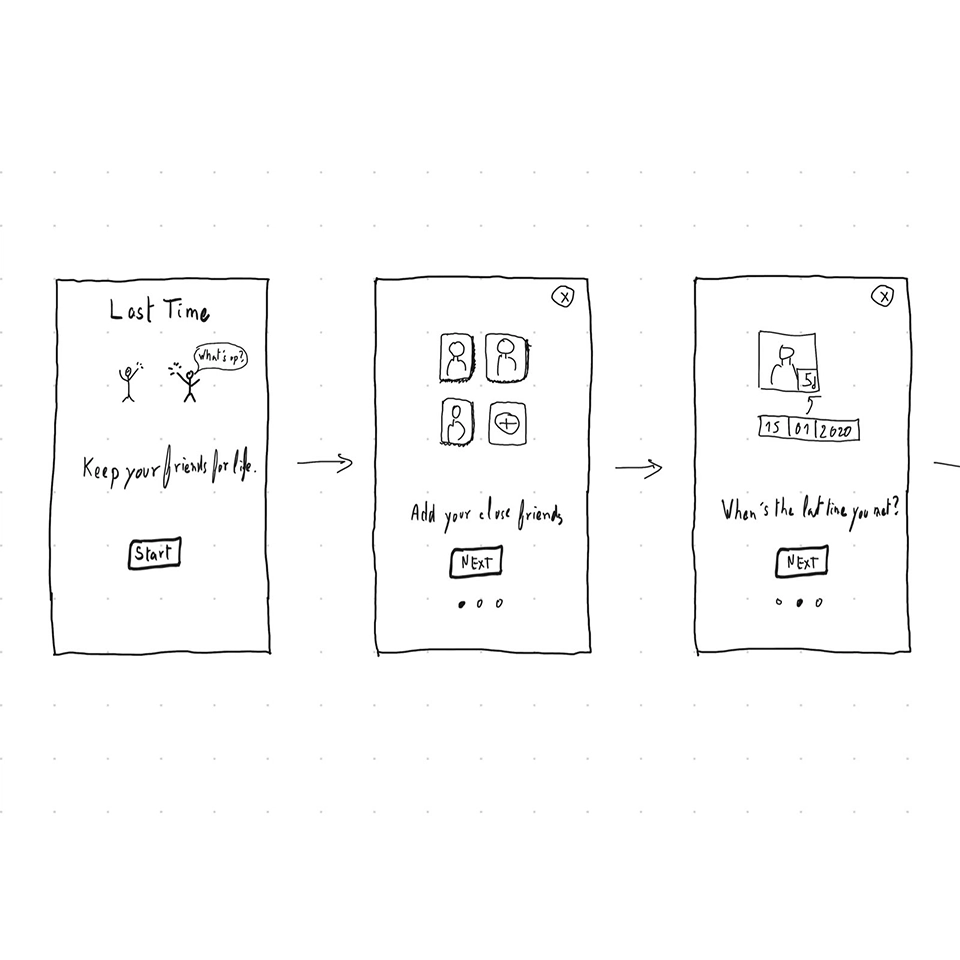
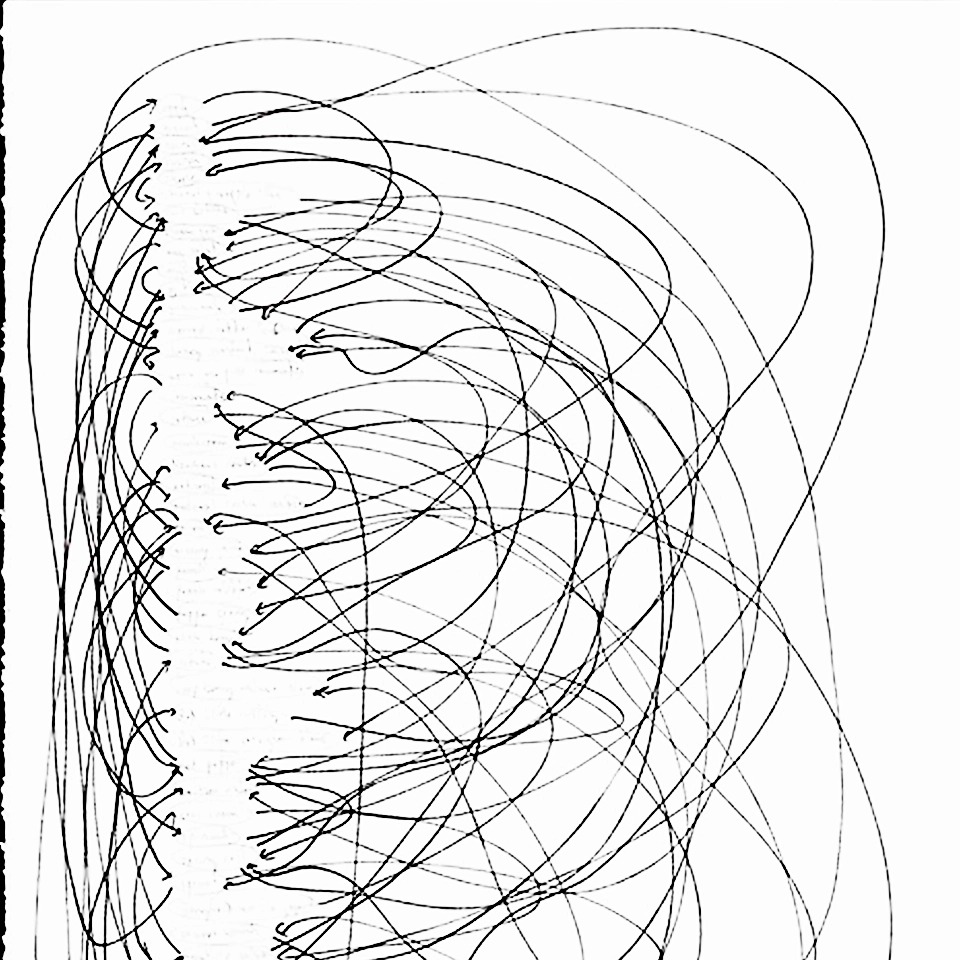
img

diff --git a/index.html b/index.html
@@ -151,7 +151,7 @@
           </a>
           <!-- Mono -->
           <div class="foto-celle">
-            <img src="img/img_index/placeholder_2.webp" alt="" />
+            <img src="img/img_index/placeholder_a.webp" alt="" />
           </div>
           <!-- T04 -->
           <a href="t4-ui.html" class="kort moerk">
@@ -167,7 +167,7 @@
           <!-- Row 3: Mono · T05 · T06 -->
           <!-- Mono -->
           <div class="foto-celle">
-            <img src="img/img_index/placeholder.webp" alt="" />
+            <img src="img/img_index/placeholder_2.webp" alt="" />
           </div>
           <!-- T05 -->
           <a href="t5-indhold.html" class="kort moerk">
